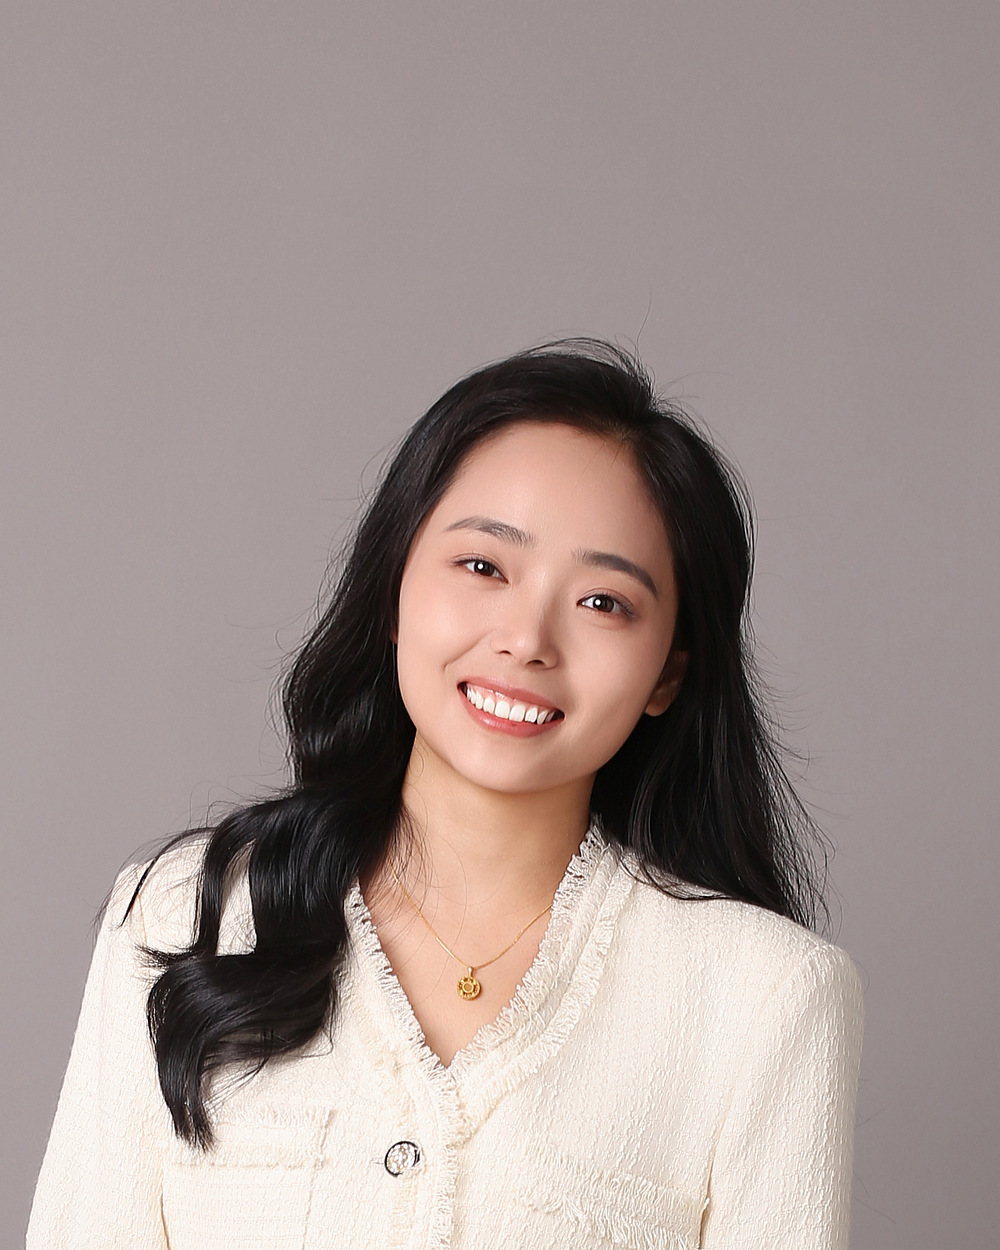
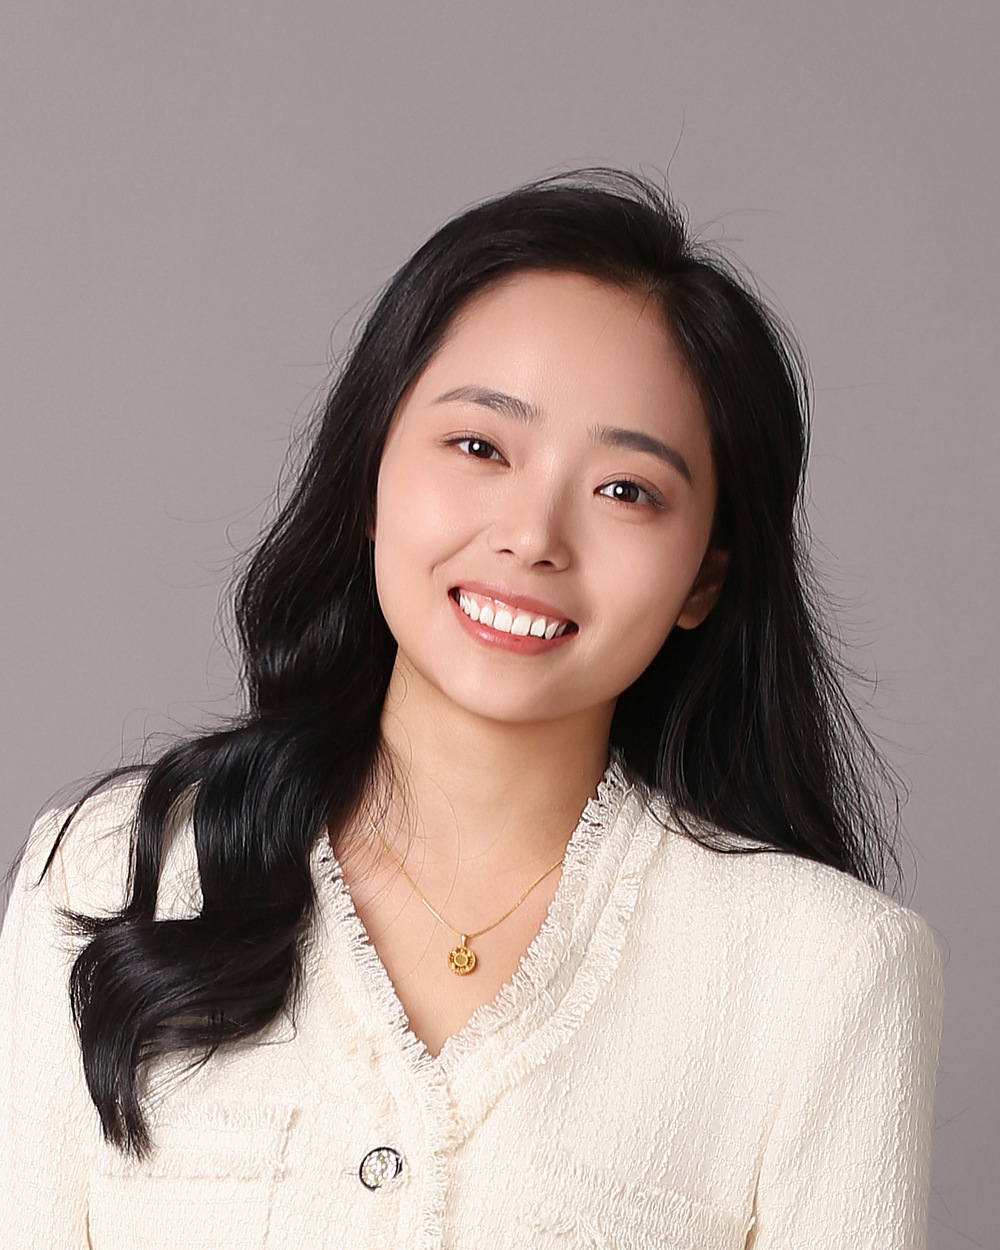
Headshot: tighter crop

diff --git a/index.html b/index.html
@@ -111,7 +111,7 @@ footer { color: var(--muted); font-size: 0.85rem; border-top: 1px solid var(--li
 <div class="wrap">
   <aside class="rail">
     <div class="photo" id="photo">
-      <img src="photo.jpg?v=5" alt="Xiuling Zhang" width="1000" height="1250" onload="document.getElementById('photo').classList.add('has-img')" onerror="this.remove()">
+      <img src="photo.jpg?v=6" alt="Xiuling Zhang" width="1000" height="1250" onload="document.getElementById('photo').classList.add('has-img')" onerror="this.remove()">
       <div class="ph">Photo<br>coming soon</div>
     </div>
     <div>
